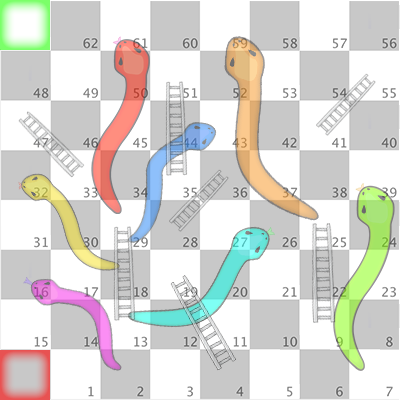
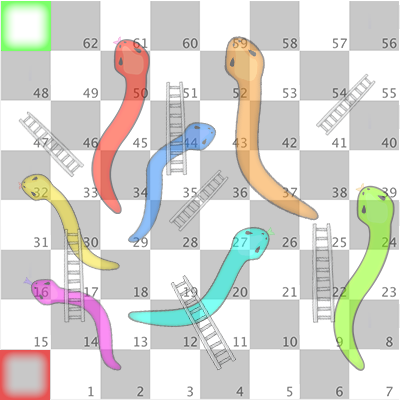
Add warping snakes and ladders

Changed region(s): [[0.27, 0.57, 0.36, 0.81], [0.15, 0.57, 0.21, 0.81], [0.0, 0.0, 0.03, 0.03]]

diff --git a/src/engine/Game.java b/src/engine/Game.java
@@ -21,6 +21,7 @@ public class Game extends Observable{
 			board.addPiece(players.get(i).getPiece(), 0);
 		}
 		ended = false;
+		initWarp();
 	}
 
 	public boolean isEnded() { return ended; }
@@ -51,6 +52,14 @@ public class Game extends Observable{
 			end();
 		}
 	}
+	
+	public void currentPlayerWarp(Warp warp){
+		setChanged();
+		notifyObservers(ObserverCodes.PLAYER_WARP_STRING);
+		currentPlayer().warpPiece(board, warp);
+		setChanged();
+		notifyObservers(ObserverCodes.BOARD_UPDATED_STRING);
+	}
 
 	public boolean currentPlayerWins(){
 		return board.pieceIsAtGoal(currentPlayer().getPiece());
@@ -75,6 +84,29 @@ public class Game extends Observable{
 
 	public ArrayList<Player> getPlayers(){
 		return players;
+	}
+
+	private void initWarp() {
+		board.addWarp(4, 19);
+		board.addWarp(9, 25);
+		board.addWarp(14, 30);
+		board.addWarp(16, 2);
+		board.addWarp(26, 13);
+		board.addWarp(28, 36);
+		board.addWarp(32, 18);
+		board.addWarp(33, 47);
+		board.addWarp(41, 55);
+		board.addWarp(43, 29);
+		board.addWarp(59, 25);
+		board.addWarp(61, 29);
+	}
+	
+	public boolean currentPlayerIsAtWarp(){
+		return board.pieceIsAtWarp(currentPlayer().getPiece());
+	}
+	
+	public Warp getWarpAtCurrentPosition(){
+		return board.getWarpInSquare(currentPlayerPosition());
 	}
 
 }

diff --git a/src/GUI/ControllerPanel.java b/src/GUI/ControllerPanel.java
@@ -51,6 +51,9 @@ public class ControllerPanel extends JPanel implements Observer{
 					infoBox("Player "+game.currentPlayerName()+" wins~!","Game ended!");
 					frame.end();
 				}
+				else if(game.currentPlayerIsAtWarp()){
+					game.currentPlayerWarp(game.getWarpAtCurrentPosition());
+				}
 				else{
 					game.switchPlayer();
 				}
@@ -59,12 +62,14 @@ public class ControllerPanel extends JPanel implements Observer{
 				textArea.append("\n" + game.currentPlayerName() + "'s turn.\n");
 				textArea.append( game.currentPlayerName() + " is at " + game.currentPlayerPosition() + ".\n");
 			}
+			if(temp.equals(ObserverCodes.PLAYER_WARP_STRING)){
+				textArea.append( game.currentPlayerName() + " met the "+ game.getWarpAtCurrentPosition() + "\n");;
+			}
 		}
 		textArea.setCaretPosition(textArea.getDocument().getLength());
 	}
 	
-	public void infoBox(String infoMessage, String titleBar)
-    {
+	public void infoBox(String infoMessage, String titleBar) {
         JOptionPane.showMessageDialog(null, infoMessage, "InfoBox: " + titleBar, JOptionPane.INFORMATION_MESSAGE);
     }
 	

diff --git a/src/engine/Board.java b/src/engine/Board.java
@@ -26,6 +26,12 @@ public class Board {
 		}
 		addPiece(piece, newPos);
 	}
+	
+	public void warpPiece(Piece piece , Warp warp){
+		int pos = getPiecePosition(piece);
+		int newPos = warp.getDestination();
+		movePiece(piece,newPos-pos);
+	}
 
 	public int getPiecePosition(Piece piece){
 		for(Square s : squares){
@@ -40,8 +46,25 @@ public class Board {
 		return squares[getPiecePosition(piece)].isGoal();
 	}
 	
+	public boolean pieceIsAtWarp(Piece piece){
+		return squares[getPiecePosition(piece)].hasWarp();
+	}
+	
 	public Square[] getSquares(){
 		return squares;
+	}
+	
+	public void addWarp(int position, int destination){
+		if(position < destination){
+			squares[position].setWarp(new Warp(destination,Warp.LADDER));
+		}
+		else{
+			squares[position].setWarp(new Warp(destination,Warp.SNAKE));
+		}
+	}
+	
+	public Warp getWarpInSquare(int position){
+		return squares[position].getWarp();
 	}
 
 }

diff --git a/src/engine/Warp.java b/src/engine/Warp.java
@@ -1,0 +1,30 @@
+package engine;
+
+public class Warp {
+	
+	final public static int SNAKE = 0;
+	final public static int LADDER = 1;
+
+	private int destination;
+	private int mode;
+	
+	public Warp(int destination, int mode){
+		this.destination = destination;
+		this.mode = mode;
+	}
+	
+	public int getDestination(){
+		return destination;
+	}
+	
+	public String toString(){
+		if(mode == SNAKE){
+			return "snake";
+		}
+		if(mode == LADDER){
+			return "ladder";
+		}
+		return "warp";
+	}
+	
+}

diff --git a/src/engine/Square.java b/src/engine/Square.java
@@ -7,6 +7,7 @@ public class Square {
 	private List<Piece> pieces;
 	private int number;
 	private boolean goal;
+	private Warp warp;
 	
 	public Square(int number){
 		this.number = number;
@@ -36,6 +37,18 @@ public class Square {
 	
 	public int getNumber(){
 		return number;
+	}
+	
+	public void setWarp(Warp warp){
+		this.warp = warp;
+	}
+	
+	public boolean hasWarp(){
+		return warp != null;
+	}
+	
+	public Warp getWarp(){
+		return warp;
 	}
 	
 }

diff --git a/src/engine/ObserverCodes.java b/src/engine/ObserverCodes.java
@@ -5,4 +5,6 @@ public class ObserverCodes {
 	final public static String DIE_ROLLED_STRING = "die_rolled";
 	final public static String BOARD_UPDATED_STRING = "board_updated";
 	final public static String PLAYER_CHANGED_STRING = "player_changed";
+	final public static String PLAYER_WARP_STRING = "player_warp";
+	
 }

diff --git a/src/GUI/MainFrame.java b/src/GUI/MainFrame.java
@@ -14,7 +14,7 @@ import engine.Player;
 public class MainFrame extends JFrame{
 	
 	Game game;
-	JButton restartBtn = new JButton("Restart");
+	JButton restartBtn = new JButton("Play again~!");
 	JButton quitBtn = new JButton("Quit");
 	JPanel south;
 

diff --git a/src/engine/Player.java b/src/engine/Player.java
@@ -22,6 +22,10 @@ public class Player {
 		board.movePiece(piece, steps);
 	}
 	
+	public void warpPiece(Board board, Warp warp){
+		board.warpPiece(piece, warp);
+	}
+	
 	public Piece getPiece(){
 		return piece;
 	}
